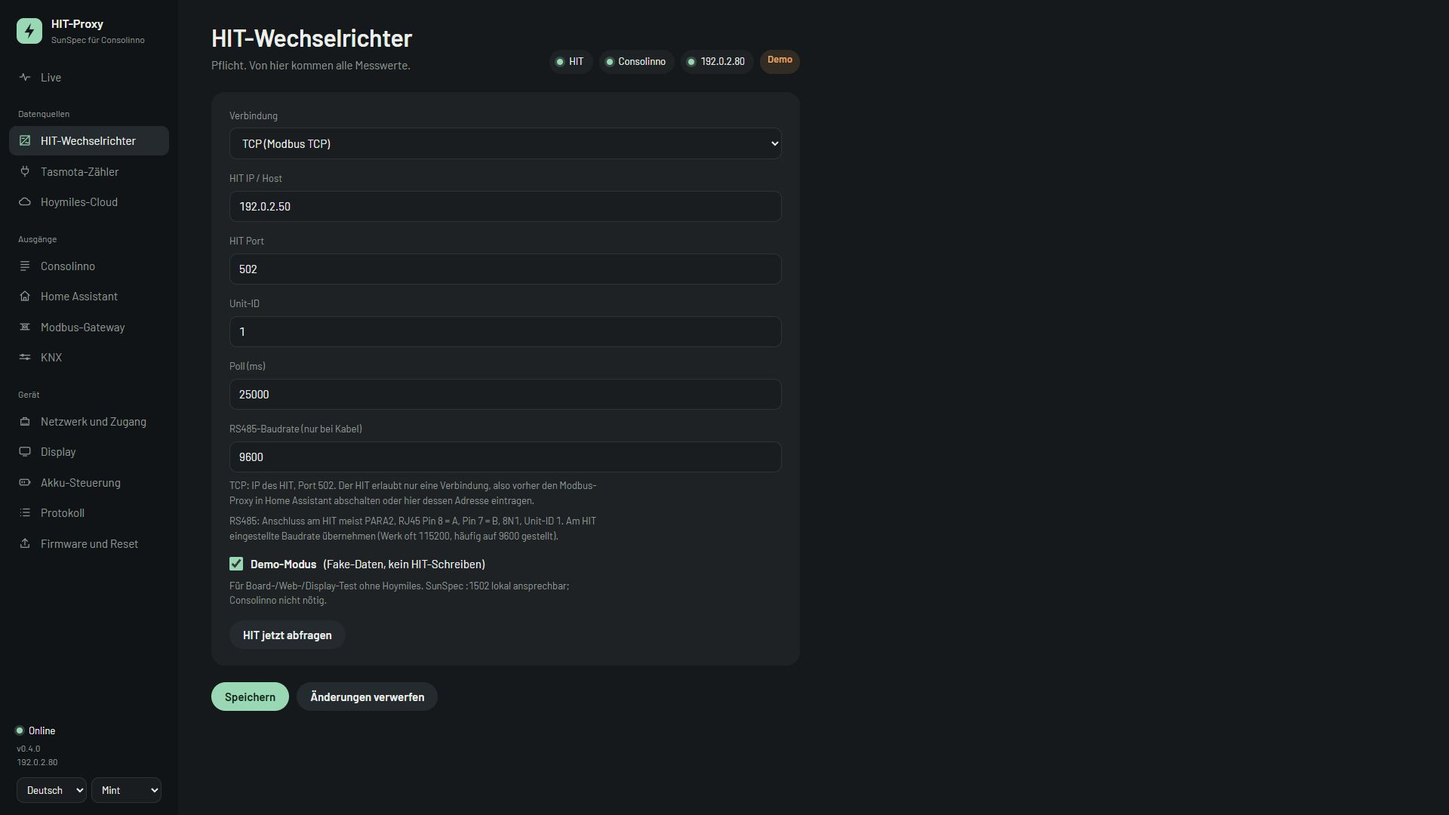
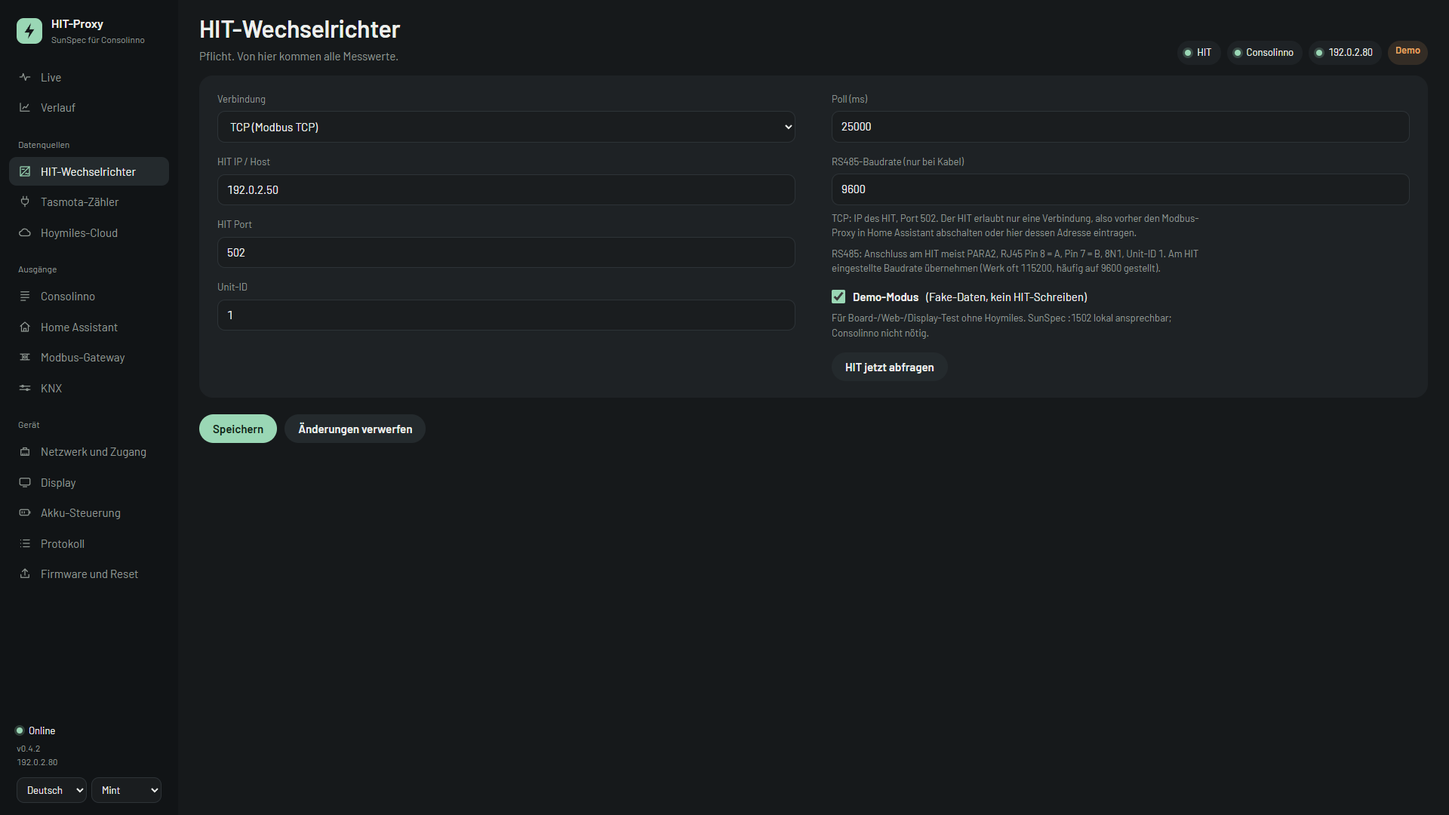
Docs for v0.4.2: fresh screenshots, history and system log sections; log page title.
Screenshots rendered from the firmware HTML with demo data (RFC 5737 addresses). Preview gains a log page with invented events and a ?theme= switch.

diff --git a/docs/ui-preview/debug.html b/docs/ui-preview/debug.html
@@ -1,0 +1,181 @@
+
+<!doctype html>
+<html lang="de"><head>
+<meta charset="utf-8"/><meta name="viewport" content="width=device-width,initial-scale=1"/>
+<meta name="color-scheme" content="dark"/><title>Protokoll · HIT Proxy</title>
+<link rel="stylesheet" href="/a.css"/>
+<style>.card{margin-bottom:12px}</style>
+</head><body>
+<script>
+const STATUS={"version": "0.4.2", "setupComplete": true, "demoMode": true, "ipShown": "192.0.2.80", "ipEth": "192.0.2.80", "ipWifi": "192.0.2.81", "hitOk": true, "sunspecClient": true, "mqttOk": false, "mqttIngestOk": false, "cloudOk": false, "knxOk": true, "ethOk": true, "wifiOk": true, "dataOrigin": "NATIVE", "pvW": 4820, "pv1W": 1210, "pv2W": 1180, "pv3W": 1240, "pv4W": 1190, "batW": -620, "batV": 51.2, "batA": -12.1, "soc": 74, "soh": 98, "gridW": 210, "gridW1": 70, "gridW2": 68, "gridW3": 72, "v1": 231.2, "v2": 230.8, "v3": 231.5, "i1": 1.1, "i2": 1.0, "i3": 1.2, "freqHz": 50.01, "energyPvKwh": 12840.5, "energyImpKwh": 210.2, "energyExpKwh": 8420.1, "tasmotaOk": false, "tasmotaPowerW": 0, "tasmotaTotalKwh": 0, "tasmotaExportKwh": 0, "tasmotaSensorKey": "", "wMaxLimPct": 10000, "wMaxLimEna": false, "lastWriteNote": "", "lastHitAgeMs": 1200, "status": "ok"};
+STATUS.uiTheme=new URLSearchParams(location.search).get('theme')||'mint';
+const EV={uptimeMs:34920000,hitPolls:1394,hitFails:27,hitErr:"Verbindungsaufbau fehlgeschlagen",events:[{"t": 0, "ts": 0, "lv": "I", "src": "System", "msg": "Start v0.4.2, Grund: Software-Neustart (OTA)"}, {"t": 4200, "ts": 0, "lv": "I", "src": "Cloud", "msg": "Daten kommen an"}, {"t": 7200000, "ts": 0, "lv": "W", "src": "HIT", "msg": "Abfrage fehlgeschlagen bei Reg 1804: keine Antwort (Timeout)"}, {"t": 7226000, "ts": 0, "lv": "I", "src": "HIT", "msg": "wieder erreichbar nach 1 Fehlversuch (25 s)"}, {"t": 18000000, "ts": 0, "lv": "W", "src": "HIT", "msg": "Abfrage fehlgeschlagen bei Reg 27: vom HIT getrennt"}, {"t": 18500000, "ts": 0, "lv": "E", "src": "HIT", "msg": "seit 500 s keine Daten (20 Versuche): Verbindungsaufbau fehlgeschlagen"}, {"t": 18640000, "ts": 0, "lv": "I", "src": "HIT", "msg": "wieder erreichbar nach 26 Fehlversuchen (640 s)"}, {"t": 28800000, "ts": 0, "lv": "W", "src": "Cloud", "msg": "Datenabruf fehlgeschlagen (HTTP 502)"}, {"t": 28861000, "ts": 0, "lv": "I", "src": "Cloud", "msg": "Daten kommen an"}]};
+const WR={uptimeMs:34920000,wMaxLimPct:6000,wMaxLimEna:true,sunspecClient:true,hitWriteEnabled:false,sunspecWriteToHit:false,
+  count:2,lastAddr:40238,lastVal:6000,lastNote:"WMaxLimPct 60 %",events:[{t:34620000,fc:16,addr:40238,val:6000,note:"WMaxLimPct 60 %"},{t:34621000,fc:6,addr:40242,val:1,note:"WMaxLim_Ena an"}]};
+const _f=window.fetch;
+window.fetch=async(u,o)=>{
+  u=String(u);
+  if(u.includes('/api/events')) return {ok:true,json:async()=>EV};
+  if(u.includes('/api/debug')) return {ok:true,json:async()=>WR};
+  if(u.includes('/api/status')) return {ok:true,json:async()=>STATUS};
+  return _f(u,o);
+};
+</script>
+<div class="app">
+<aside class="side">
+  <div class="logo"><svg viewBox="0 0 32 32" aria-hidden="true"><rect width="32" height="32" rx="9" fill="currentColor"/><path d="M18 6 10 18h6l-2 8 8-12h-6z" style="fill:var(--bg)"/></svg><div><b>HIT-Proxy</b><span>SunSpec für Consolinno</span></div></div>
+  <nav>
+    <a href="/"><svg viewBox="0 0 24 24" fill="none" stroke="currentColor" stroke-width="1.7" stroke-linecap="round" stroke-linejoin="round" aria-hidden="true"><path d="M3 12h4l2-6 4 12 2-6h6"/></svg> Live</a>
+    <a href="/history"><svg viewBox="0 0 24 24" fill="none" stroke="currentColor" stroke-width="1.7" stroke-linecap="round" stroke-linejoin="round" aria-hidden="true"><path d="M4 19V5M4 19h16M8 15l3-4 3 2 4-6"/></svg> Verlauf</a>
+    <div class="nav-grp">Datenquellen</div>
+    <a href="/config#hit"><svg viewBox="0 0 24 24" fill="none" stroke="currentColor" stroke-width="1.7" stroke-linecap="round" stroke-linejoin="round" aria-hidden="true"><rect x="4" y="4" width="16" height="16" rx="1"/><path d="M4 20 20 4M7 8.5h4M13 16c.9-1.1 1.8-1.1 2.7 0s1.8 1.1 2.7 0"/></svg> HIT-Wechselrichter</a>
+    <a href="/config#tasmota"><svg viewBox="0 0 24 24" fill="none" stroke="currentColor" stroke-width="1.7" stroke-linecap="round" stroke-linejoin="round" aria-hidden="true"><path d="M9 3v5M15 3v5M6 8h12v3a6 6 0 0 1-12 0zM12 17v4"/></svg> Tasmota-Zähler</a>
+    <a href="/config#cloud"><svg viewBox="0 0 24 24" fill="none" stroke="currentColor" stroke-width="1.7" stroke-linecap="round" stroke-linejoin="round" aria-hidden="true"><path d="M7 18h10a4 4 0 0 0 .4-8A6 6 0 0 0 6 9.6 4.2 4.2 0 0 0 7 18z"/></svg> Hoymiles-Cloud</a>
+    <div class="nav-grp">Ausgänge</div>
+    <a href="/config#sunspec"><svg viewBox="0 0 24 24" fill="none" stroke="currentColor" stroke-width="1.7" stroke-linecap="round" stroke-linejoin="round" aria-hidden="true"><path d="M5 5h14M5 10h14M5 15h14M5 20h8"/></svg> Consolinno</a>
+    <a href="/config#mqtt"><svg viewBox="0 0 24 24" fill="none" stroke="currentColor" stroke-width="1.7" stroke-linecap="round" stroke-linejoin="round" aria-hidden="true"><path d="M4 11 12 4l8 7M6 9.5V20h12V9.5M10 20v-5h4v5"/></svg> Home Assistant</a>
+    <a href="/config#gateway"><svg viewBox="0 0 24 24" fill="none" stroke="currentColor" stroke-width="1.7" stroke-linecap="round" stroke-linejoin="round" aria-hidden="true"><path d="M4 7h16M4 17h16M8 7v10M16 7v10"/><circle cx="12" cy="12" r="2"/></svg> Modbus-Gateway</a>
+    <a href="/config#knx"><svg viewBox="0 0 24 24" fill="none" stroke="currentColor" stroke-width="1.7" stroke-linecap="round" stroke-linejoin="round" aria-hidden="true"><path d="M3 9h18M3 15h18"/><circle cx="8" cy="9" r="1.6"/><circle cx="16" cy="15" r="1.6"/></svg> KNX</a>
+    <div class="nav-grp">Gerät</div>
+    <a href="/config#netz"><svg viewBox="0 0 24 24" fill="none" stroke="currentColor" stroke-width="1.7" stroke-linecap="round" stroke-linejoin="round" aria-hidden="true"><path d="M5 9h14v10H5zM8.5 19v-3M12 19v-3M15.5 19v-3M9 9V6h6v3"/></svg> Netzwerk und Zugang</a>
+    <a href="/config#display"><svg viewBox="0 0 24 24" fill="none" stroke="currentColor" stroke-width="1.7" stroke-linecap="round" stroke-linejoin="round" aria-hidden="true"><rect x="3" y="5" width="18" height="12" rx="2.5"/><path d="M9 20h6"/></svg> Display</a>
+    <a href="/config#ctrl"><svg viewBox="0 0 24 24" fill="none" stroke="currentColor" stroke-width="1.7" stroke-linecap="round" stroke-linejoin="round" aria-hidden="true"><rect x="3" y="7" width="16" height="10" rx="2.5"/><path d="M21 10.5v3M7 10.5v3M11 10.5v3"/></svg> Akku-Steuerung</a>
+    <a class="on" aria-current="page" href="/debug"><svg viewBox="0 0 24 24" fill="none" stroke="currentColor" stroke-width="1.7" stroke-linecap="round" stroke-linejoin="round" aria-hidden="true"><path d="M9 6h11M9 12h11M9 18h11M4.5 6h.01M4.5 12h.01M4.5 18h.01"/></svg> Protokoll</a>
+    <a href="/ota"><svg viewBox="0 0 24 24" fill="none" stroke="currentColor" stroke-width="1.7" stroke-linecap="round" stroke-linejoin="round" aria-hidden="true"><path d="M12 15V4M7.5 8.5 12 4l4.5 4.5M5 14v5h14v-5"/></svg> Firmware und Reset</a>
+  </nav>
+  <div class="foot">
+    <div class="online"><span class="dot ok"></span> Online</div>
+    <div class="meta" id="sideVer">—</div>
+    <div class="prefs">
+      <select id="uiLang" onchange="saveUiPrefs()">
+        <option value="de">Deutsch</option>
+        <option value="en">English</option>
+      </select>
+      <select id="uiTheme" onchange="saveUiPrefs()">
+        <option value="mint">Mint</option>
+        <option value="ocean">Ocean</option>
+        <option value="ember">Ember</option>
+        <option value="light">Hell</option>
+      </select>
+    </div>
+  </div>
+</aside>
+<main class="main">
+<style>
+.ltabs{display:flex;gap:6px;margin:0 0 14px}
+.ltabs button:not(.on){background:var(--plate2);color:var(--ink)}
+.lv{display:inline-block;width:8px;height:8px;border-radius:50%;margin-right:8px;background:var(--rule2)}
+.lv.W{background:var(--warn)}.lv.E{background:var(--fault)}.lv.I{background:var(--acc)}
+#sys td:first-child,#tb td:first-child{white-space:nowrap;color:var(--dim);padding-right:16px}
+#sys td:nth-child(2){white-space:nowrap;padding-right:16px}
+</style>
+<div class="page-head">
+  <div>
+    <h1>Protokoll</h1>
+    <p class="sub" id="psub">Verbindungen, Fehler und Neustarts seit dem letzten Start.</p>
+  </div>
+</div>
+<div class="ltabs">
+  <button type="button" id="tSys" class="on" onclick="tab('sys')">System</button>
+  <button type="button" id="tW" onclick="tab('w')">§14a-Writes</button>
+</div>
+
+<div id="pSys">
+<div class="card" id="sysSum">Lade…</div>
+<div class="card" style="margin-top:12px">
+<div class="row" style="margin-top:0;margin-bottom:12px">
+<button class="sec" type="button" onclick="refresh()">Aktualisieren</button>
+<button class="sec" type="button" onclick="clrSys()">Protokoll leeren</button>
+</div>
+<table><thead><tr><th>Zeit</th><th>Quelle</th><th>Meldung</th></tr></thead>
+<tbody id="sys"></tbody></table>
+</div>
+</div>
+
+<div id="pW" class="hide">
+<div class="card" id="sum">Lade…</div>
+<div class="card" style="margin-top:12px">
+<div class="row" style="margin-top:0;margin-bottom:12px">
+<button class="sec" type="button" onclick="refresh()">Aktualisieren</button>
+<button class="sec" type="button" onclick="clr()">Log leeren</button>
+</div>
+<table><thead><tr><th>Alter</th><th>FC</th><th>Addr</th><th>Wert</th><th>Hinweis</th></tr></thead>
+<tbody id="tb"></tbody></table>
+</div>
+</div>
+</main></div>
+
+<script>
+const I18N={
+ de:{live:'Live',settings:'Einstellungen',proto:'Protokoll',energy:'Energiefluss',batSoc:'Batterie SoC',poll:'Jetzt pollen',
+     pv:'PV',bat:'Batterie',grid:'Netz',soc:'SoC',enHit:'Energie HIT',yield:'PV Ertrag',imp:'Bezug',exp:'Einspeisung',
+     lpp:'Consolinno LPP',limit:'Limit',on:'aktiv',off:'aus',hems:'HEMS',conn:'verbunden',wait:'wartet',tas:'Tasmota',
+     online:'online',offline:'offline',ph:'Phasen Netz',freq:'Frequenz',sys:'System'},
+ en:{live:'Live',settings:'Settings',proto:'Log',energy:'Energy flow',batSoc:'Battery SoC',poll:'Poll now',
+     pv:'PV',bat:'Battery',grid:'Grid',soc:'SoC',enHit:'HIT Energy',yield:'PV yield',imp:'Import',exp:'Export',
+     lpp:'Consolinno LPP',limit:'Limit',on:'on',off:'off',hems:'HEMS',conn:'connected',wait:'waiting',tas:'Tasmota',
+     online:'online',offline:'offline',ph:'Grid phases',freq:'Frequency',sys:'System'}
+};
+let LANG='de';
+function t(k){return (I18N[LANG]&&I18N[LANG][k])||k;}
+function applyThemeLang(s){
+  LANG=(s.uiLang==='en')?'en':'de';
+  document.documentElement.lang=LANG;
+  document.documentElement.dataset.theme=s.uiTheme||'mint';
+  const sl=document.getElementById('uiLang'); if(sl)sl.value=LANG;
+  const st=document.getElementById('uiTheme'); if(st)st.value=s.uiTheme||'mint';
+  const sv=document.getElementById('sideVer'); if(sv)sv.textContent='v'+(s.version||'')+'\n'+(s.ipShown||'');
+}
+async function saveUiPrefs(){
+  const body={uiLang:document.getElementById('uiLang').value,uiTheme:document.getElementById('uiTheme').value};
+  await fetch('/api/config',{method:'POST',headers:{'Content-Type':'application/json'},body:JSON.stringify(body)});
+  location.reload();
+}
+</script>
+<script>
+function age(ms){const s=Math.floor((Date.now()-window._boot-ms)/1000);if(s<0)return ms+'ms';if(s<60)return s+'s';return Math.floor(s/60)+'m';}
+let TAB=location.hash==='#writes'?'w':'sys';
+function tab(k){TAB=k;$('tSys').classList.toggle('on',k==='sys');$('tW').classList.toggle('on',k==='w');
+  $('pSys').classList.toggle('hide',k!=='sys');$('pW').classList.toggle('hide',k!=='w');
+  $('psub').textContent=k==='sys'?'Verbindungen, Fehler und Neustarts seit dem letzten Start.':'SunSpec Model 123: Writes von Consolinno auf Port 1502.';
+  history.replaceState(null,'',location.pathname+location.search+(k==='w'?'#writes':''));refresh();}
+const $=id=>document.getElementById(id);
+const esc=s=>String(s).replace(/[&<>]/g,c=>({'&':'&amp;','<':'&lt;','>':'&gt;'}[c]));
+function when(e,boot){
+  const d=e.ts?new Date(e.ts*1000):new Date(boot+e.t);
+  const today=new Date().toDateString()===d.toDateString();
+  return (today?'':d.toLocaleDateString('de-DE',{day:'2-digit',month:'2-digit'})+' ')+d.toLocaleTimeString('de-DE');
+}
+async function refreshSys(){
+  const d=await(await fetch('/api/events')).json();
+  const boot=Date.now()-d.uptimeMs;
+  const rate=d.hitPolls?(100*d.hitFails/d.hitPolls):0;
+  $('sysSum').innerHTML=`<div class="big" style="color:${d.hitFails?(rate>5?'var(--fault)':'var(--warn)'):'var(--acc)'}">HIT: ${d.hitFails} von ${d.hitPolls} Abfragen fehlgeschlagen</div>
+    <div class="muted">${d.hitPolls?rate.toFixed(1)+' % seit Start · ':''}läuft seit ${Math.floor(d.uptimeMs/3600000)} h ${Math.floor(d.uptimeMs/60000)%60} min${d.hitErr?' · letzte Ursache: '+esc(d.hitErr):''}</div>`;
+  const tb=$('sys');
+  tb.innerHTML=(d.events||[]).slice().reverse().map(e=>`<tr><td>${when(e,boot)}</td><td><span class="lv ${e.lv}"></span>${esc(e.src)}</td><td>${esc(e.msg)}</td></tr>`).join('')
+    ||'<tr><td colspan="3" class="muted">Noch keine Einträge.</td></tr>';
+}
+async function clrSys(){await fetch('/api/events/clear',{method:'POST'});refresh();}
+async function refresh(){
+  const s=await(await fetch('/api/status')).json(); applyThemeLang(s);
+  if(TAB==='sys')return refreshSys();
+  const d=await(await fetch('/api/debug')).json();
+  window._boot=Date.now()-d.uptimeMs;
+  const pct=(d.wMaxLimPct/100).toFixed(2);
+  const ena=d.wMaxLimEna;
+  document.getElementById('sum').innerHTML=`
+    <div class="big">${ena?'BEGRENZT':'Frei'} · ${pct} %</div>
+    <div class="muted">WMaxLimPct_Ena=${ena?1:0} · raw=${d.wMaxLimPct} (SF-2) · HEMS-Client ${d.sunspecClient?'verbunden':'—'} · Writes ${d.count}
+    ${d.lastNote?('<br>Zuletzt: '+d.lastNote+' (Addr '+d.lastAddr+' = '+d.lastVal+')'):'<br>Noch kein Write empfangen — in Consolinno §14a/LPP testen.'}</div>
+    <div class="muted" style="margin-top:8px">HIT-Weiterleitung: ${d.sunspecWriteToHit?'an':'aus'} · Write-Enable: ${d.hitWriteEnabled?'an':'aus'}</div>`;
+  const tb=document.getElementById('tb'); tb.innerHTML='';
+  (d.events||[]).slice().reverse().forEach(e=>{
+    const tr=document.createElement('tr');
+    tr.innerHTML=`<td>${age(e.t)}</td><td>${e.fc}</td><td>${e.addr}</td><td>${e.val}</td><td>${e.note||''}</td>`;
+    tb.appendChild(tr);
+  });
+}
+async function clr(){await fetch('/api/debug/clear',{method:'POST'});refresh();}
+tab(TAB);setInterval(()=>{if(!document.hidden)refresh();},3000);
+</script></body></html>

diff --git a/docs/ui-preview/history.html b/docs/ui-preview/history.html
@@ -35,7 +35,8 @@
 </head><body>
 <script>
 const H={day:{"step": 300, "valid": true, "end": 1762905600, "pv": [0, 0, 0, 0, 0, 0, 0, 0, 0, 0, 0, 0, 0, 0, 0, 0, 0, 0, 0, 0, 0, 0, 0, 0, 0, 0, 0, 0, 0, 0, 0, 0, 0, 0, 0, 0, 0, 0, 0, 0, 0, 0, 0, 0, 0, 0, 0, 0, 0, 0, 0, 0, 0, 0, 0, 0, 0, 0, 0, 0, 0, 0, 0, 0, 0, 0, 0, 0, 0, 0, 0, 0, 136, 272, 408, 544, 679, 813, 948, 1081, 1214, 1346, 1477, 1607, 1736, 1864, 1990, 2115, 2239, 2361, 2481, 2600, 2717, 2832, 2945, 3056, 3166, 3272, 3377, 3479, 3579, 3677, 3772, 3864, 3954, 4041, 4125, 4207, 4285, 4361, 4434, 4503, 4570, 4633, 4693, 4750, 4804, 4855, 4902, 4945, 4986, 5023, 5056, 5086, 5113, 5136, 5156, 5172, 5184, 5193, 5198, 5200, 5198, 5193, 5184, 5172, 5156, 5136, 5113, 5086, 5056, 5023, 4986, 4945, 4902, 4855, 4804, 4750, 4693, 4633, 4570, 4503, 4434, 4361, 4285, 4207, 4125, 4041, 3954, 3864, 3772, 3677, 3579, 3479, 3377, 3272, 3166, 3056, 2945, 2832, 2717, 2600, 2481, 2361, 2239, 2115, 1990, 1864, 1736, 1607, 1477, 1346, 1214, 1081, 948, 813, 679, 544, 408, 272, 136, 0, 0, 0, 0, 0, 0, 0, 0, 0, 0, 0, 0, 0, 0, 0, 0, 0, 0, 0, 0, 0, 0, 0, 0, 0, 0, 0, 0, 0, 0, 0, 0, 0, 0, 0, 0, 0, 0, 0, 0, 0, 0, 0, 0, 0, 0, 0, 0, 0, 0, 0, 0, 0, 0, 0, 0, 0, 0, 0, 0, 0, 0, 0, 0, 0, 0, 0, 0, 0, 0, 0, 0, 0, 0, 0, 0, 0, 0, 0, 0, 0, 0, 0, 0, 0, 0, 0, 0, 0, 0, 0, 0, 0, 0, 0, 0, 0], "bat": [0, 0, 0, 0, 0, 0, 0, 0, 0, 0, 0, 0, 0, 0, 0, 0, 0, 0, 0, 0, 0, 0, 0, 0, 0, 0, 0, 0, 0, 0, 0, 0, 0, 0, 0, 0, 0, 0, 0, 0, 0, 0, 0, 0, 0, 0, 0, 0, 0, 0, 0, 0, 0, 0, 0, 0, 0, 0, 0, 0, 0, 0, 0, 0, 0, 0, 0, 0, 0, 0, 0, 0, 0, 0, 0, 0, 0, 0, 0, 0, 0, 0, 0, -1030, -1199, -1363, -1517, -1659, -1789, -1904, -2007, -2097, -2178, -2252, -2322, -2393, -2466, -2500, -2500, -2500, -2500, -2500, -2500, -2500, -2500, -2500, -2500, -2500, -2500, -2500, -2500, -2500, -2500, -2500, -2500, -2500, -2500, -2500, -2500, -2500, -2500, -2500, -2500, -2500, -2500, -2500, -2500, -2500, -2500, -2500, -2500, -2500, -2500, -2500, -2500, -2500, -2500, -2500, -2500, -2500, -2500, -2500, -2500, -2500, -2500, -2500, -2500, -2500, -2500, -2500, -2500, -2500, -2500, -2500, -2500, -2500, -2500, -2500, -2500, -2500, -2500, -2500, -2500, -2500, -2500, -2500, -2422, -2332, -2249, -2172, -2099, -2024, -1946, -1861, -1766, -1660, -1540, -1407, -1260, -1103, -936, -764, -589, -416, -247, -86, 0, 0, 0, 0, 0, 0, 618, 575, 535, 499, 472, 455, 450, 457, 476, 504, 541, 582, 1525, 1566, 1601, 1628, 1645, 1650, 1643, 1624, 1595, 1559, 1518, 1475, 1434, 1399, 1372, 1355, 1350, 1357, 1376, 1405, 1441, 1482, 1525, 1566, 1601, 1628, 1645, 1650, 1643, 1624, 1595, 1559, 1517, 1475, 1434, 1399, 1372, 1355, 1350, 1357, 1376, 1405, 1442, 1483, 1526, 1566, 1601, 728, 745, 750, 743, 724, 695, 658, 617, 574, 534, 498, 471, 455, 450, 457, 476, 505, 542, 583, 626, 667, 702, 729, 745, 750, 743, 724, 695, 658, 617, 574, 533, 498, 471, 455, 450, 0], "grid": [450, 456, 474, 502, 538, 579, 621, 662, 698, 726, 744, 750, 744, 726, 698, 662, 621, 578, 537, 502, 474, 456, 450, 456, 474, 502, 538, 579, 622, 663, 699, 726, 744, 750, 744, 726, 698, 662, 621, 578, 537, 501, 473, 456, 450, 456, 474, 502, 538, 579, 622, 663, 699, 727, 744, 750, 744, 726, 697, 661, 620, 578, 537, 501, 473, 456, 1350, 1356, 1374, 1403, 1439, 1480, 1386, 1291, 1191, 1083, 966, 837, 696, 544, 383, 215, 43, 0, 0, 0, 0, 0, 0, 0, 0, 0, 0, 0, 0, 0, 0, -45, -133, -229, -336, -452, -575, -704, -835, -964, -1089, -1207, -1313, -1406, -1484, -1547, -1595, -1630, -1654, -1670, -1681, -1690, -1702, -1718, -1741, -1773, -1813, -1861, -1916, -1976, -2036, -2095, -2148, -2193, -2226, -2245, -2248, -2236, -2209, -2168, -2116, -2055, -1989, -1922, -1856, -1795, -1741, -1696, -1659, -1630, -1608, -1590, -1575, -1557, -1535, -1504, -1461, -1406, -1335, -1250, -1150, -1037, -914, -783, -648, -512, -379, -252, -132, -22, 0, 0, 0, 0, 0, 0, 0, 0, 0, 0, 0, 0, 0, 0, 0, 0, 0, 0, 0, 0, 66, 206, 335, 452, 560, 659, 0, 0, 0, 0, 0, 0, 0, 0, 0, 0, 0, 0, 0, 0, 0, 0, 0, 0, 0, 0, 0, 0, 0, 0, 0, 0, 0, 0, 0, 0, 0, 0, 0, 0, 0, 0, 0, 0, 0, 0, 0, 0, 0, 0, 0, 0, 0, 0, 0, 0, 0, 0, 0, 0, 0, 0, 0, 0, 0, 0, 0, 0, 0, 0, 0, 0, 0, 0, 0, 0, 0, 0, 0, 0, 0, 0, 0, 0, 0, 0, 0, 0, 0, 0, 0, 0, 0, 0, 0, 0, 0, 0, 0, 0, 0, 458], "house": [450, 456, 474, 502, 538, 579, 621, 662, 698, 726, 744, 750, 744, 726, 698, 662, 621, 578, 537, 502, 474, 456, 450, 456, 474, 502, 538, 579, 622, 663, 699, 726, 744, 750, 744, 726, 698, 662, 621, 578, 537, 501, 473, 456, 450, 456, 474, 502, 538, 579, 622, 663, 699, 727, 744, 750, 744, 726, 697, 661, 620, 578, 537, 501, 473, 456, 1350, 1356, 1374, 1403, 1439, 1480, 1523, 1563, 1599, 1627, 1644, 1650, 1644, 1625, 1597, 1561, 1520, 577, 536, 501, 473, 456, 450, 457, 475, 503, 539, 580, 623, 664, 699, 727, 744, 750, 743, 725, 697, 661, 620, 577, 536, 500, 473, 456, 450, 457, 475, 503, 539, 581, 623, 664, 700, 727, 744, 750, 743, 725, 697, 660, 619, 576, 536, 500, 473, 455, 450, 457, 475, 504, 540, 581, 624, 664, 700, 727, 745, 750, 743, 725, 696, 660, 619, 576, 535, 500, 472, 455, 450, 457, 475, 504, 540, 581, 624, 665, 700, 728, 745, 750, 743, 725, 696, 660, 618, 576, 535, 500, 472, 455, 450, 457, 475, 504, 541, 582, 624, 665, 701, 728, 745, 750, 743, 724, 696, 659, 618, 575, 535, 499, 472, 455, 450, 457, 476, 504, 541, 582, 1525, 1566, 1601, 1628, 1645, 1650, 1643, 1624, 1595, 1559, 1518, 1475, 1434, 1399, 1372, 1355, 1350, 1357, 1376, 1405, 1441, 1482, 1525, 1566, 1601, 1628, 1645, 1650, 1643, 1624, 1595, 1559, 1517, 1475, 1434, 1399, 1372, 1355, 1350, 1357, 1376, 1405, 1442, 1483, 1526, 1566, 1601, 728, 745, 750, 743, 724, 695, 658, 617, 574, 534, 498, 471, 455, 450, 457, 476, 505, 542, 583, 626, 667, 702, 729, 745, 750, 743, 724, 695, 658, 617, 574, 533, 498, 471, 455, 450, 458]},bars:{day:[{"k": "2026-10-01", "pv": 6.78, "house": 11.83, "imp": 7.76, "exp": 1.73, "chg": 4.1, "dis": 3.8}, {"k": "2026-10-02", "pv": 9.45, "house": 11.36, "imp": 5.69, "exp": 3.2, "chg": 4.1, "dis": 3.8}, {"k": "2026-10-03", "pv": 11.9, "house": 10.62, "imp": 3.48, "exp": 4.55, "chg": 4.1, "dis": 3.8}, {"k": "2026-10-04", "pv": 14.04, "house": 9.71, "imp": 1.29, "exp": 5.72, "chg": 4.1, "dis": 3.8}, {"k": "2026-10-05", "pv": 15.78, "house": 8.71, "imp": 0.4, "exp": 6.68, "chg": 4.1, "dis": 3.8}, {"k": "2026-10-06", "pv": 17.05, "house": 7.75, "imp": 0.4, "exp": 7.38, "chg": 4.1, "dis": 3.8}, {"k": "2026-10-07", "pv": 17.8, "house": 6.93, "imp": 0.4, "exp": 7.79, "chg": 4.1, "dis": 3.8}, {"k": "2026-10-08", "pv": 17.99, "house": 6.33, "imp": 0.4, "exp": 7.89, "chg": 4.1, "dis": 3.8}, {"k": "2026-10-09", "pv": 17.63, "house": 6.03, "imp": 0.4, "exp": 7.7, "chg": 4.1, "dis": 3.8}, {"k": "2026-10-10", "pv": 16.73, "house": 6.05, "imp": 0.4, "exp": 7.2, "chg": 4.1, "dis": 3.8}, {"k": "2026-10-11", "pv": 15.32, "house": 6.4, "imp": 0.4, "exp": 6.43, "chg": 4.1, "dis": 3.8}, {"k": "2026-10-12", "pv": 13.46, "house": 7.04, "imp": 0.4, "exp": 5.4, "chg": 4.1, "dis": 3.8}, {"k": "2026-10-13", "pv": 11.22, "house": 7.89, "imp": 1.16, "exp": 4.17, "chg": 4.1, "dis": 3.8}, {"k": "2026-10-14", "pv": 8.69, "house": 8.86, "imp": 3.65, "exp": 2.78, "chg": 4.1, "dis": 3.8}, {"k": "2026-10-15", "pv": 5.98, "house": 9.85, "imp": 6.26, "exp": 1.29, "chg": 4.1, "dis": 3.8}, {"k": "2026-10-16", "pv": 4.82, "house": 10.75, "imp": 7.86, "exp": 0.65, "chg": 4.1, "dis": 3.8}, {"k": "2026-10-17", "pv": 7.58, "house": 11.45, "imp": 6.9, "exp": 2.17, "chg": 4.1, "dis": 3.8}, {"k": "2026-10-18", "pv": 10.2, "house": 11.88, "imp": 5.76, "exp": 3.61, "chg": 4.1, "dis": 3.8}, {"k": "2026-10-19", "pv": 12.57, "house": 12.0, "imp": 4.46, "exp": 4.91, "chg": 4.1, "dis": 3.8}, {"k": "2026-10-20", "pv": 14.6, "house": 11.78, "imp": 3.02, "exp": 6.03, "chg": 4.1, "dis": 3.8}, {"k": "2026-10-21", "pv": 16.2, "house": 11.26, "imp": 1.54, "exp": 6.91, "chg": 4.1, "dis": 3.8}, {"k": "2026-10-22", "pv": 17.32, "house": 10.49, "imp": 0.4, "exp": 7.53, "chg": 4.1, "dis": 3.8}, {"k": "2026-10-23", "pv": 17.91, "house": 9.56, "imp": 0.4, "exp": 7.85, "chg": 4.1, "dis": 3.8}, {"k": "2026-10-24", "pv": 17.95, "house": 8.56, "imp": 0.4, "exp": 7.87, "chg": 4.1, "dis": 3.8}, {"k": "2026-10-25", "pv": 17.42, "house": 7.62, "imp": 0.4, "exp": 7.58, "chg": 4.1, "dis": 3.8}, {"k": "2026-10-26", "pv": 16.37, "house": 6.82, "imp": 0.4, "exp": 7.0, "chg": 4.1, "dis": 3.8}, {"k": "2026-10-27", "pv": 14.82, "house": 6.27, "imp": 0.4, "exp": 6.15, "chg": 4.1, "dis": 3.8}, {"k": "2026-10-28", "pv": 12.84, "house": 6.01, "imp": 0.4, "exp": 5.06, "chg": 4.1, "dis": 3.8}, {"k": "2026-10-29", "pv": 10.5, "house": 6.09, "imp": 0.4, "exp": 3.78, "chg": 4.1, "dis": 3.8}, {"k": "2026-10-30", "pv": 7.91, "house": 6.48, "imp": 1.73, "exp": 2.35, "chg": 4.1, "dis": 3.8}, {"k": "2026-10-31", "pv": 5.16, "house": 7.16, "imp": 4.06, "exp": 0.84, "chg": 4.1, "dis": 3.8}],month:[{"k": "2025-11", "pv": 322.2, "house": 310, "imp": 110.0, "exp": 154.8, "chg": 90, "dis": 85}, {"k": "2025-12", "pv": 208.7, "house": 310, "imp": 170.0, "exp": 79.2, "chg": 90, "dis": 85}, {"k": "2026-01", "pv": 208.7, "house": 310, "imp": 200.0, "exp": 79.2, "chg": 90, "dis": 85}, {"k": "2026-02", "pv": 322.2, "house": 310, "imp": 170.0, "exp": 154.8, "chg": 90, "dis": 85}, {"k": "2026-03", "pv": 423.9, "house": 310, "imp": 110.0, "exp": 222.6, "chg": 90, "dis": 85}, {"k": "2026-04", "pv": 507.0, "house": 310, "imp": 80.0, "exp": 278.0, "chg": 90, "dis": 85}, {"k": "2026-05", "pv": 565.7, "house": 310, "imp": 110.0, "exp": 317.2, "chg": 90, "dis": 85}, {"k": "2026-06", "pv": 596.2, "house": 310, "imp": 170.0, "exp": 337.4, "chg": 90, "dis": 85}, {"k": "2026-07", "pv": 596.2, "house": 310, "imp": 200.0, "exp": 337.4, "chg": 90, "dis": 85}, {"k": "2026-08", "pv": 565.7, "house": 310, "imp": 170.0, "exp": 317.2, "chg": 90, "dis": 85}, {"k": "2026-09", "pv": 507.0, "house": 310, "imp": 110.0, "exp": 278.0, "chg": 90, "dis": 85}, {"k": "2026-10", "pv": 423.9, "house": 310, "imp": 80.0, "exp": 222.6, "chg": 90, "dis": 85}, {"k": "2026-11", "pv": 322.2, "house": 310, "imp": 110.0, "exp": 154.8, "chg": 90, "dis": 85}],year:[{"k": "2025", "pv": 3920.4, "house": 3710, "imp": 980.2, "exp": 1650.3, "chg": 1100, "dis": 1040}, {"k": "2026", "pv": 4715.2, "house": 3890, "imp": 921.4, "exp": 2240.8, "chg": 1210, "dis": 1150}]},total:{"pv": 8642.9, "imp": 940.7, "exp": 6299.7}};
-const STATUS={"version": "0.4.0", "setupComplete": true, "demoMode": true, "ipShown": "192.0.2.80", "ipEth": "192.0.2.80", "ipWifi": "192.0.2.81", "hitOk": true, "sunspecClient": true, "mqttOk": false, "mqttIngestOk": false, "cloudOk": false, "knxOk": true, "ethOk": true, "wifiOk": true, "dataOrigin": "NATIVE", "pvW": 4820, "pv1W": 1210, "pv2W": 1180, "pv3W": 1240, "pv4W": 1190, "batW": -620, "batV": 51.2, "batA": -12.1, "soc": 74, "soh": 98, "gridW": 210, "gridW1": 70, "gridW2": 68, "gridW3": 72, "v1": 231.2, "v2": 230.8, "v3": 231.5, "i1": 1.1, "i2": 1.0, "i3": 1.2, "freqHz": 50.01, "energyPvKwh": 12840.5, "energyImpKwh": 210.2, "energyExpKwh": 8420.1, "tasmotaOk": false, "tasmotaPowerW": 0, "tasmotaTotalKwh": 0, "tasmotaExportKwh": 0, "tasmotaSensorKey": "", "wMaxLimPct": 10000, "wMaxLimEna": false, "lastWriteNote": "", "lastHitAgeMs": 1200, "status": "ok"};
+const STATUS={"version": "0.4.2", "setupComplete": true, "demoMode": true, "ipShown": "192.0.2.80", "ipEth": "192.0.2.80", "ipWifi": "192.0.2.81", "hitOk": true, "sunspecClient": true, "mqttOk": false, "mqttIngestOk": false, "cloudOk": false, "knxOk": true, "ethOk": true, "wifiOk": true, "dataOrigin": "NATIVE", "pvW": 4820, "pv1W": 1210, "pv2W": 1180, "pv3W": 1240, "pv4W": 1190, "batW": -620, "batV": 51.2, "batA": -12.1, "soc": 74, "soh": 98, "gridW": 210, "gridW1": 70, "gridW2": 68, "gridW3": 72, "v1": 231.2, "v2": 230.8, "v3": 231.5, "i1": 1.1, "i2": 1.0, "i3": 1.2, "freqHz": 50.01, "energyPvKwh": 12840.5, "energyImpKwh": 210.2, "energyExpKwh": 8420.1, "tasmotaOk": false, "tasmotaPowerW": 0, "tasmotaTotalKwh": 0, "tasmotaExportKwh": 0, "tasmotaSensorKey": "", "wMaxLimPct": 10000, "wMaxLimEna": false, "lastWriteNote": "", "lastHitAgeMs": 1200, "status": "ok"};
+STATUS.uiTheme=new URLSearchParams(location.search).get('theme')||'mint';
 const _f=window.fetch;
 window.fetch=async(u,o)=>{
   u=String(u);

diff --git a/docs/ui-preview/config.html b/docs/ui-preview/config.html
@@ -8,7 +8,7 @@
 <script>
 const META={"points": [{"id": "pv_w", "label": "PV Leistung gesamt", "dpt": 14056, "kind": "PowerW"}, {"id": "pv1_w", "label": "MPPT1 Leistung", "dpt": 14056, "kind": "PowerW"}, {"id": "pv1_v", "label": "MPPT1 Spannung", "dpt": 14027, "kind": "Volt"}, {"id": "pv1_a", "label": "MPPT1 Strom", "dpt": 14033, "kind": "Amp"}, {"id": "pv2_w", "label": "MPPT2 Leistung", "dpt": 14056, "kind": "PowerW"}, {"id": "pv2_v", "label": "MPPT2 Spannung", "dpt": 14027, "kind": "Volt"}, {"id": "pv2_a", "label": "MPPT2 Strom", "dpt": 14033, "kind": "Amp"}, {"id": "pv3_w", "label": "MPPT3 Leistung", "dpt": 14056, "kind": "PowerW"}, {"id": "pv3_v", "label": "MPPT3 Spannung", "dpt": 14027, "kind": "Volt"}, {"id": "pv3_a", "label": "MPPT3 Strom", "dpt": 14033, "kind": "Amp"}, {"id": "pv4_w", "label": "MPPT4 Leistung", "dpt": 14056, "kind": "PowerW"}, {"id": "pv4_v", "label": "MPPT4 Spannung", "dpt": 14027, "kind": "Volt"}, {"id": "pv4_a", "label": "MPPT4 Strom", "dpt": 14033, "kind": "Amp"}, {"id": "bat_w", "label": "Batterie Leistung", "dpt": 14056, "kind": "PowerW"}, {"id": "bat_v", "label": "Batterie Spannung", "dpt": 14027, "kind": "Volt"}, {"id": "bat_a", "label": "Batterie Strom", "dpt": 14033, "kind": "Amp"}, {"id": "soc", "label": "Batterie SoC", "dpt": 5001, "kind": "Percent"}, {"id": "soh", "label": "Batterie SoH", "dpt": 5001, "kind": "Percent"}, {"id": "grid_w", "label": "Netz Leistung gesamt", "dpt": 14056, "kind": "PowerW"}, {"id": "grid_w1", "label": "Netz Leistung L1", "dpt": 14056, "kind": "PowerW"}, {"id": "grid_w2", "label": "Netz Leistung L2", "dpt": 14056, "kind": "PowerW"}, {"id": "grid_w3", "label": "Netz Leistung L3", "dpt": 14056, "kind": "PowerW"}, {"id": "v1", "label": "AC Spannung L1", "dpt": 14027, "kind": "Volt"}, {"id": "v2", "label": "AC Spannung L2", "dpt": 14027, "kind": "Volt"}, {"id": "v3", "label": "AC Spannung L3", "dpt": 14027, "kind": "Volt"}, {"id": "i1", "label": "AC Strom L1", "dpt": 14033, "kind": "Amp"}, {"id": "i2", "label": "AC Strom L2", "dpt": 14033, "kind": "Amp"}, {"id": "i3", "label": "AC Strom L3", "dpt": 14033, "kind": "Amp"}, {"id": "freq", "label": "Netzfrequenz", "dpt": 14035, "kind": "Hz"}, {"id": "epv", "label": "PV Energie", "dpt": 13010, "kind": "EnergyKwh"}, {"id": "eimp", "label": "Bezug Energie HIT", "dpt": 13010, "kind": "EnergyKwh"}, {"id": "eexp", "label": "Einspeisung Energie HIT", "dpt": 13010, "kind": "EnergyKwh"}, {"id": "tas_w", "label": "Z\u00e4hler Leistung Tasmota", "dpt": 14056, "kind": "PowerW"}, {"id": "tas_in", "label": "Z\u00e4hler E_in Tasmota", "dpt": 13010, "kind": "EnergyKwh"}, {"id": "tas_out", "label": "Z\u00e4hler E_out Tasmota", "dpt": 13010, "kind": "EnergyKwh"}, {"id": "lpp", "label": "Consolinno LPP %", "dpt": 5001, "kind": "RatioPct"}]};
 const CFG={"knxEnabled": true, "knxPa": "1.1.240", "knxPublishMs": 10000, "knxOnlyOnChange": true, "knxMinDeltaW": 50, "knxCh": [{"ena": true, "ga": "1/2/10", "dpt": 14056}, {"ena": true, "ga": "1/2/11", "dpt": 14056}, {"ena": true, "ga": "1/2/12", "dpt": 14027}, {"ena": false, "ga": "", "dpt": 14033}, {"ena": false, "ga": "", "dpt": 14056}, {"ena": false, "ga": "", "dpt": 14027}, {"ena": false, "ga": "", "dpt": 14033}, {"ena": false, "ga": "", "dpt": 14056}, {"ena": false, "ga": "", "dpt": 14027}, {"ena": false, "ga": "", "dpt": 14033}, {"ena": false, "ga": "", "dpt": 14056}, {"ena": false, "ga": "", "dpt": 14027}, {"ena": false, "ga": "", "dpt": 14033}, {"ena": true, "ga": "1/2/23", "dpt": 14056}, {"ena": false, "ga": "", "dpt": 14027}, {"ena": false, "ga": "", "dpt": 14033}, {"ena": true, "ga": "1/2/26", "dpt": 5001}, {"ena": false, "ga": "", "dpt": 5001}, {"ena": true, "ga": "1/2/28", "dpt": 14056}, {"ena": false, "ga": "", "dpt": 14056}, {"ena": false, "ga": "", "dpt": 14056}, {"ena": false, "ga": "", "dpt": 14056}, {"ena": true, "ga": "1/2/32", "dpt": 14027}, {"ena": false, "ga": "", "dpt": 14027}, {"ena": false, "ga": "", "dpt": 14027}, {"ena": false, "ga": "", "dpt": 14033}, {"ena": false, "ga": "", "dpt": 14033}, {"ena": false, "ga": "", "dpt": 14033}, {"ena": true, "ga": "1/2/38", "dpt": 14035}, {"ena": false, "ga": "", "dpt": 13010}, {"ena": false, "ga": "", "dpt": 13010}, {"ena": false, "ga": "", "dpt": 13010}, {"ena": false, "ga": "", "dpt": 14056}, {"ena": false, "ga": "", "dpt": 13010}, {"ena": false, "ga": "", "dpt": 13010}, {"ena": false, "ga": "", "dpt": 5001}], "deviceName": "HIT-SunSpec-Proxy", "demoMode": true, "hitHost": "192.0.2.50", "hitPort": 502, "hitUnitId": 1, "hitPollMs": 25000, "wifiSsid": "HIT-Proxy", "wifiEnabled": true, "useEthernet": true, "sunspecPort": 1502, "sunspecUnitId": 1, "displayEnabled": true, "displayBrightness": 80, "displayPageS": 8, "displayTimeoutS": 300, "gatewayEnabled": true, "gatewayPort": 502, "mqttEnabled": false, "cloudEnabled": false, "tasmotaEnabled": false, "hitWriteEnabled": false, "setupComplete": true, "webUser": "admin", "wifiApMode": false, "invertPowerSign": false, "hitMode": 0, "hitRtuBaud": 9600, "mqttDiscovery": true, "mqttHost": "", "mqttPort": 1883, "mqttUser": "", "mqttPass": "", "mqttBase": "hitproxy", "mqttPublishMs": 15000, "mqttIngestEnabled": false, "mqttIngestTopic": "", "mqttIngestMaxAgeMs": 120000, "cloudHost": "", "cloudUser": "", "cloudPass": "", "cloudStationId": "", "cloudPollMs": 60000, "cloudMaxAgeMs": 180000, "tasmotaMeterSpoof": false, "tasmotaHost": "", "tasmotaPort": 80, "tasmotaPollMs": 5000, "tasmotaUser": "", "tasmotaPass": "", "batMaxChargePct": 100, "batMaxDischargePct": 100, "batMaxSoc": 100, "batMinSoc": 10, "apcPwrLmtPct10": 1000, "apcEnabled": false, "sunspecWriteToHit": false};
-const STATUS={"version": "0.4.0", "setupComplete": true, "demoMode": true, "ipShown": "192.0.2.80", "ipEth": "192.0.2.80", "ipWifi": "192.0.2.81", "hitOk": true, "sunspecClient": true, "mqttOk": false, "mqttIngestOk": false, "cloudOk": false, "knxOk": true, "ethOk": true, "wifiOk": true, "dataOrigin": "NATIVE", "pvW": 4820, "pv1W": 1210, "pv2W": 1180, "pv3W": 1240, "pv4W": 1190, "batW": -620, "batV": 51.2, "batA": -12.1, "soc": 74, "soh": 98, "gridW": 210, "gridW1": 70, "gridW2": 68, "gridW3": 72, "v1": 231.2, "v2": 230.8, "v3": 231.5, "i1": 1.1, "i2": 1.0, "i3": 1.2, "freqHz": 50.01, "energyPvKwh": 12840.5, "energyImpKwh": 210.2, "energyExpKwh": 8420.1, "tasmotaOk": false, "tasmotaPowerW": 0, "tasmotaTotalKwh": 0, "tasmotaExportKwh": 0, "tasmotaSensorKey": "", "wMaxLimPct": 10000, "wMaxLimEna": false, "lastWriteNote": "", "lastHitAgeMs": 1200, "status": "ok"};
+const STATUS={"version": "0.4.2", "setupComplete": true, "demoMode": true, "ipShown": "192.0.2.80", "ipEth": "192.0.2.80", "ipWifi": "192.0.2.81", "hitOk": true, "sunspecClient": true, "mqttOk": false, "mqttIngestOk": false, "cloudOk": false, "knxOk": true, "ethOk": true, "wifiOk": true, "dataOrigin": "NATIVE", "pvW": 4820, "pv1W": 1210, "pv2W": 1180, "pv3W": 1240, "pv4W": 1190, "batW": -620, "batV": 51.2, "batA": -12.1, "soc": 74, "soh": 98, "gridW": 210, "gridW1": 70, "gridW2": 68, "gridW3": 72, "v1": 231.2, "v2": 230.8, "v3": 231.5, "i1": 1.1, "i2": 1.0, "i3": 1.2, "freqHz": 50.01, "energyPvKwh": 12840.5, "energyImpKwh": 210.2, "energyExpKwh": 8420.1, "tasmotaOk": false, "tasmotaPowerW": 0, "tasmotaTotalKwh": 0, "tasmotaExportKwh": 0, "tasmotaSensorKey": "", "wMaxLimPct": 10000, "wMaxLimEna": false, "lastWriteNote": "", "lastHitAgeMs": 1200, "status": "ok"};
 const _f=window.fetch;
 window.fetch=async(u,o)=>{
   u=String(u);

diff --git a/docs/ui-preview/index.html b/docs/ui-preview/index.html
@@ -7,7 +7,8 @@
 <link rel="stylesheet" href="/a.css"/>
 </head><body>
 <script>
-const MOCK={"version": "0.4.0", "setupComplete": true, "demoMode": true, "ipShown": "192.0.2.80", "ipEth": "192.0.2.80", "ipWifi": "192.0.2.81", "hitOk": true, "sunspecClient": true, "mqttOk": false, "mqttIngestOk": false, "cloudOk": false, "knxOk": true, "ethOk": true, "wifiOk": true, "dataOrigin": "NATIVE", "pvW": 4820, "pv1W": 1210, "pv2W": 1180, "pv3W": 1240, "pv4W": 1190, "batW": -620, "batV": 51.2, "batA": -12.1, "soc": 74, "soh": 98, "gridW": 210, "gridW1": 70, "gridW2": 68, "gridW3": 72, "v1": 231.2, "v2": 230.8, "v3": 231.5, "i1": 1.1, "i2": 1.0, "i3": 1.2, "freqHz": 50.01, "energyPvKwh": 12840.5, "energyImpKwh": 210.2, "energyExpKwh": 8420.1, "tasmotaOk": false, "tasmotaPowerW": 0, "tasmotaTotalKwh": 0, "tasmotaExportKwh": 0, "tasmotaSensorKey": "", "wMaxLimPct": 10000, "wMaxLimEna": false, "lastWriteNote": "", "lastHitAgeMs": 1200, "status": "ok"};
+const MOCK={"version": "0.4.2", "setupComplete": true, "demoMode": true, "ipShown": "192.0.2.80", "ipEth": "192.0.2.80", "ipWifi": "192.0.2.81", "hitOk": true, "sunspecClient": true, "mqttOk": false, "mqttIngestOk": false, "cloudOk": false, "knxOk": true, "ethOk": true, "wifiOk": true, "dataOrigin": "NATIVE", "pvW": 4820, "pv1W": 1210, "pv2W": 1180, "pv3W": 1240, "pv4W": 1190, "batW": -620, "batV": 51.2, "batA": -12.1, "soc": 74, "soh": 98, "gridW": 210, "gridW1": 70, "gridW2": 68, "gridW3": 72, "v1": 231.2, "v2": 230.8, "v3": 231.5, "i1": 1.1, "i2": 1.0, "i3": 1.2, "freqHz": 50.01, "energyPvKwh": 12840.5, "energyImpKwh": 210.2, "energyExpKwh": 8420.1, "tasmotaOk": false, "tasmotaPowerW": 0, "tasmotaTotalKwh": 0, "tasmotaExportKwh": 0, "tasmotaSensorKey": "", "wMaxLimPct": 10000, "wMaxLimEna": false, "lastWriteNote": "", "lastHitAgeMs": 1200, "status": "ok"};
+MOCK.uiTheme=new URLSearchParams(location.search).get('theme')||'mint';
 const _f=window.fetch;
 window.fetch=async(u,o)=>{
   u=String(u);

diff --git a/docs/ui-preview/build_preview.py b/docs/ui-preview/build_preview.py
@@ -26,7 +26,7 @@ idx = extract("INDEX_HTML")
 (OUT / "a.css").write_text(css, encoding="utf-8")
 
 mock_status = {
-    "version": "0.4.0",
+    "version": "0.4.2",
     "setupComplete": True,
     "demoMode": True,
     "ipShown": "192.0.2.80",
@@ -80,6 +80,7 @@ mock_status = {
 dash_js = f"""
 <script>
 const MOCK={json.dumps(mock_status)};
+MOCK.uiTheme=new URLSearchParams(location.search).get('theme')||'mint';
 const _f=window.fetch;
 window.fetch=async(u,o)=>{{
   u=String(u);
@@ -230,6 +231,7 @@ hist_js = f"""
 <script>
 const H={{day:{json.dumps(day)},bars:{{day:{json.dumps(days)},month:{json.dumps(months)},year:{json.dumps(years)}}},total:{json.dumps(total)}}};
 const STATUS={json.dumps(mock_status)};
+STATUS.uiTheme=new URLSearchParams(location.search).get('theme')||'mint';
 const _f=window.fetch;
 window.fetch=async(u,o)=>{{
   u=String(u);
@@ -242,4 +244,38 @@ window.fetch=async(u,o)=>{{
 </script>
 """
 (OUT / "history.html").write_text(hist.replace("<body>", "<body>" + hist_js, 1), encoding="utf-8")
+
+# Protokoll: erfundene Ereignisse, relative Zeiten ab Seitenaufruf
+dbg = extract("DEBUG_HTML")
+up = 9 * 3600 * 1000 + 42 * 60 * 1000
+ev = [
+    (0, "I", "System", "Start v0.4.2, Grund: Software-Neustart (OTA)"),
+    (4200, "I", "Cloud", "Daten kommen an"),
+    (2 * 3600e3, "W", "HIT", "Abfrage fehlgeschlagen bei Reg 1804: keine Antwort (Timeout)"),
+    (2 * 3600e3 + 26e3, "I", "HIT", "wieder erreichbar nach 1 Fehlversuch (25 s)"),
+    (5 * 3600e3, "W", "HIT", "Abfrage fehlgeschlagen bei Reg 27: vom HIT getrennt"),
+    (5 * 3600e3 + 500e3, "E", "HIT", "seit 500 s keine Daten (20 Versuche): Verbindungsaufbau fehlgeschlagen"),
+    (5 * 3600e3 + 640e3, "I", "HIT", "wieder erreichbar nach 26 Fehlversuchen (640 s)"),
+    (8 * 3600e3, "W", "Cloud", "Datenabruf fehlgeschlagen (HTTP 502)"),
+    (8 * 3600e3 + 61e3, "I", "Cloud", "Daten kommen an"),
+]
+events = [{"t": int(t), "ts": 0, "lv": lv, "src": s, "msg": m} for t, lv, s, m in ev]
+dbg_js = f"""
+<script>
+const STATUS={json.dumps(mock_status)};
+STATUS.uiTheme=new URLSearchParams(location.search).get('theme')||'mint';
+const EV={{uptimeMs:{up},hitPolls:1394,hitFails:27,hitErr:"Verbindungsaufbau fehlgeschlagen",events:{json.dumps(events)}}};
+const WR={{uptimeMs:{up},wMaxLimPct:6000,wMaxLimEna:true,sunspecClient:true,hitWriteEnabled:false,sunspecWriteToHit:false,
+  count:2,lastAddr:40238,lastVal:6000,lastNote:"WMaxLimPct 60 %",events:[{{t:{up - 300000},fc:16,addr:40238,val:6000,note:"WMaxLimPct 60 %"}},{{t:{up - 299000},fc:6,addr:40242,val:1,note:"WMaxLim_Ena an"}}]}};
+const _f=window.fetch;
+window.fetch=async(u,o)=>{{
+  u=String(u);
+  if(u.includes('/api/events')) return {{ok:true,json:async()=>EV}};
+  if(u.includes('/api/debug')) return {{ok:true,json:async()=>WR}};
+  if(u.includes('/api/status')) return {{ok:true,json:async()=>STATUS}};
+  return _f(u,o);
+}};
+</script>
+"""
+(OUT / "debug.html").write_text(dbg.replace("<body>", "<body>" + dbg_js, 1), encoding="utf-8")
 print(f"wrote {len(meta)} knx points -> {OUT}")

diff --git a/src/WebConfig.cpp b/src/WebConfig.cpp
@@ -1191,7 +1191,7 @@ const char DEBUG_HTML[] PROGMEM = R"HTML(
 <!doctype html>
 <html lang="de"><head>
 <meta charset="utf-8"/><meta name="viewport" content="width=device-width,initial-scale=1"/>
-<meta name="color-scheme" content="dark"/><title>Write-Debug · HIT Proxy</title>
+<meta name="color-scheme" content="dark"/><title>Protokoll · HIT Proxy</title>
 <link rel="stylesheet" href="/a.css"/>
 <style>.card{margin-bottom:12px}</style>
 </head><body><div class="app">
@@ -1311,7 +1311,7 @@ let TAB=location.hash==='#writes'?'w':'sys';
 function tab(k){TAB=k;$('tSys').classList.toggle('on',k==='sys');$('tW').classList.toggle('on',k==='w');
   $('pSys').classList.toggle('hide',k!=='sys');$('pW').classList.toggle('hide',k!=='w');
   $('psub').textContent=k==='sys'?'Verbindungen, Fehler und Neustarts seit dem letzten Start.':'SunSpec Model 123: Writes von Consolinno auf Port 1502.';
-  history.replaceState(null,'',k==='w'?'#writes':'#');refresh();}
+  history.replaceState(null,'',location.pathname+location.search+(k==='w'?'#writes':''));refresh();}
 const $=id=>document.getElementById(id);
 const esc=s=>String(s).replace(/[&<>]/g,c=>({'&':'&amp;','<':'&lt;','>':'&gt;'}[c]));
 function when(e,boot){

diff --git a/README.md b/README.md
@@ -6,7 +6,7 @@ verteilt die Daten an Consolinno, Home Assistant, KNX und andere Modbus-Clients.
 
 Zielboard: [LILYGO T-Connect-Pro](https://github.com/Xinyuan-LilyGO/T-Connect-Pro) (ESP32-S3, Ethernet W5500, Display, Touch, RS485). **Kein PoE**, 12–24 V DC.
 
-Aktuelle Firmware: **v0.4.1**
+Aktuelle Firmware: **v0.4.2**
 
 ## Architektur
 
@@ -37,6 +37,22 @@ Hoymiles HIT ──TCP/RS485─┤── Modbus-Gateway :502 ──→ Home Assi
 
 ![Live](docs/screenshots/live-dashboard.jpg)
 
+### Verlauf
+
+Leistungsbilanz der letzten 24 Stunden: Quellen (PV, Netzbezug, Akku entladen) über der Null-Linie,
+Verbraucher (Haus, Einspeisung, Akku laden) darunter. Darunter Energie je Tag, Monat, Jahr und gesamt.
+
+![Verlauf](docs/screenshots/history.jpg)
+
+![Verlauf, helles Design](docs/screenshots/history-light.jpg)
+
+### Protokoll
+
+Systemprotokoll mit HIT-Ausfällen samt Ursache, Wiederkehr, Cloud-Status, OTA und Neustarts.
+Die §14a-Writes von Consolinno stehen im zweiten Reiter.
+
+![Systemprotokoll](docs/screenshots/system-log.jpg)
+
 ### Einstellungen: HIT-Wechselrichter und KNX
 
 ![HIT-Wechselrichter](docs/screenshots/web-config.jpg)
@@ -46,6 +62,10 @@ Hoymiles HIT ──TCP/RS485─┤── Modbus-Gateway :502 ──→ Home Assi
 ## Funktionen
 
 - **Live-Seite** mit Energiefluss (PV, Akku, HIT, Netz, Haus), Ladestand-Ring, Strings, Phasen, Zählern
+- **Verlauf** im ESP gespeichert (LittleFS): 24 h in 5-Minuten-Schritten, Tage, Monate, Jahre
+- **Zwei Protokolle:** System (HIT, Cloud, OTA, Neustarts) und §14a-Writes von Consolinno;
+  das Display zeigt HIT-Fehler als Fehler/Abfragen
+- Oberfläche nutzt die volle Browserbreite
 - **Menü nach Datenweg:** Datenquellen, Ausgänge, Gerät; ein Bereich pro Menüpunkt
 - **Display** 480×222 mit kantengeglätteter Barlow-Schrift, drei Seiten (Live, Strings und Netz, System),
   einstellbarer Abschalt-Timeout, wacht bei Berührung oder HIT-Störung auf
@@ -58,7 +78,7 @@ Hoymiles HIT ──TCP/RS485─┤── Modbus-Gateway :502 ──→ Home Assi
 - **Zugangscode** jederzeit neu erzeugen; bleibt sonst über Neustarts und Updates erhalten
 - **Heim-WLAN** zusätzlich zum Geräte-WLAN (Notzugang), Änderungen ohne Neustart
 - **Live-Ansicht des Displays** in der Weboberfläche; Live-Seite bleibt stehen, automatisches Blättern optional
-- Themes Mint, Ocean, Ember; Deutsch und Englisch (Web und Display)
+- Themes Mint, Ocean, Ember und Hell; Deutsch und Englisch (Web und Display)
 
 ## Inbetriebnahme
 
